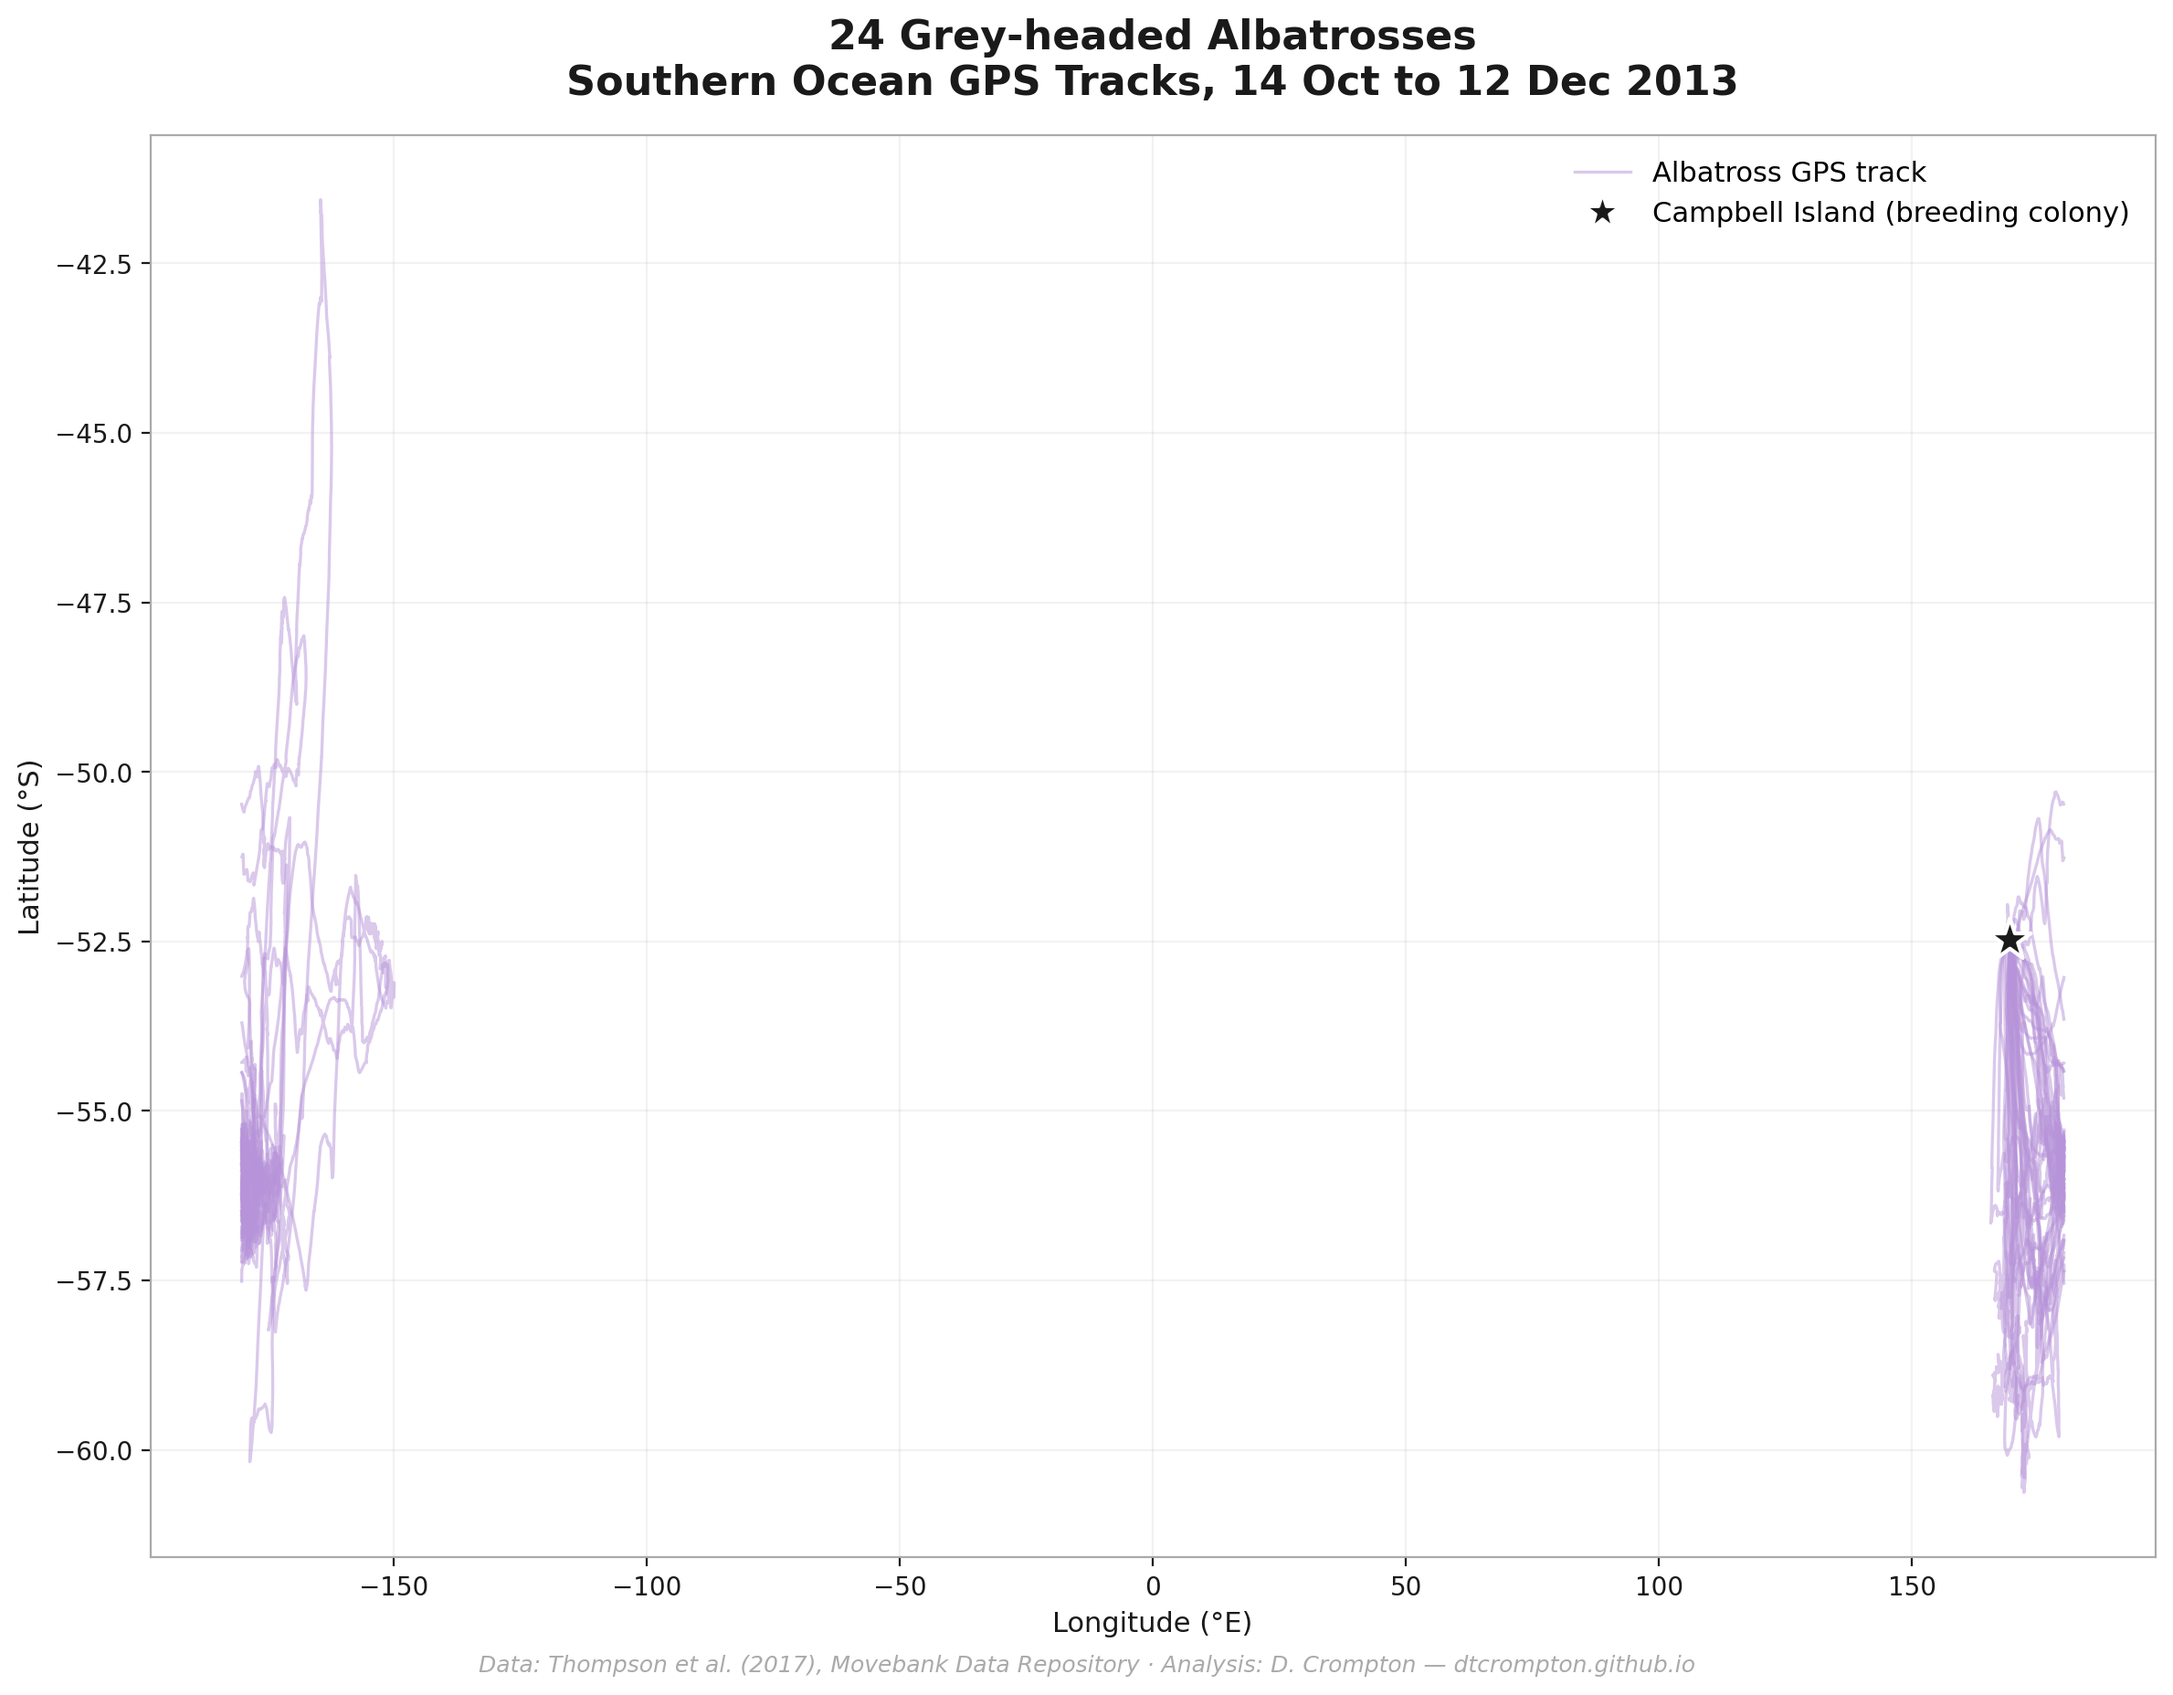
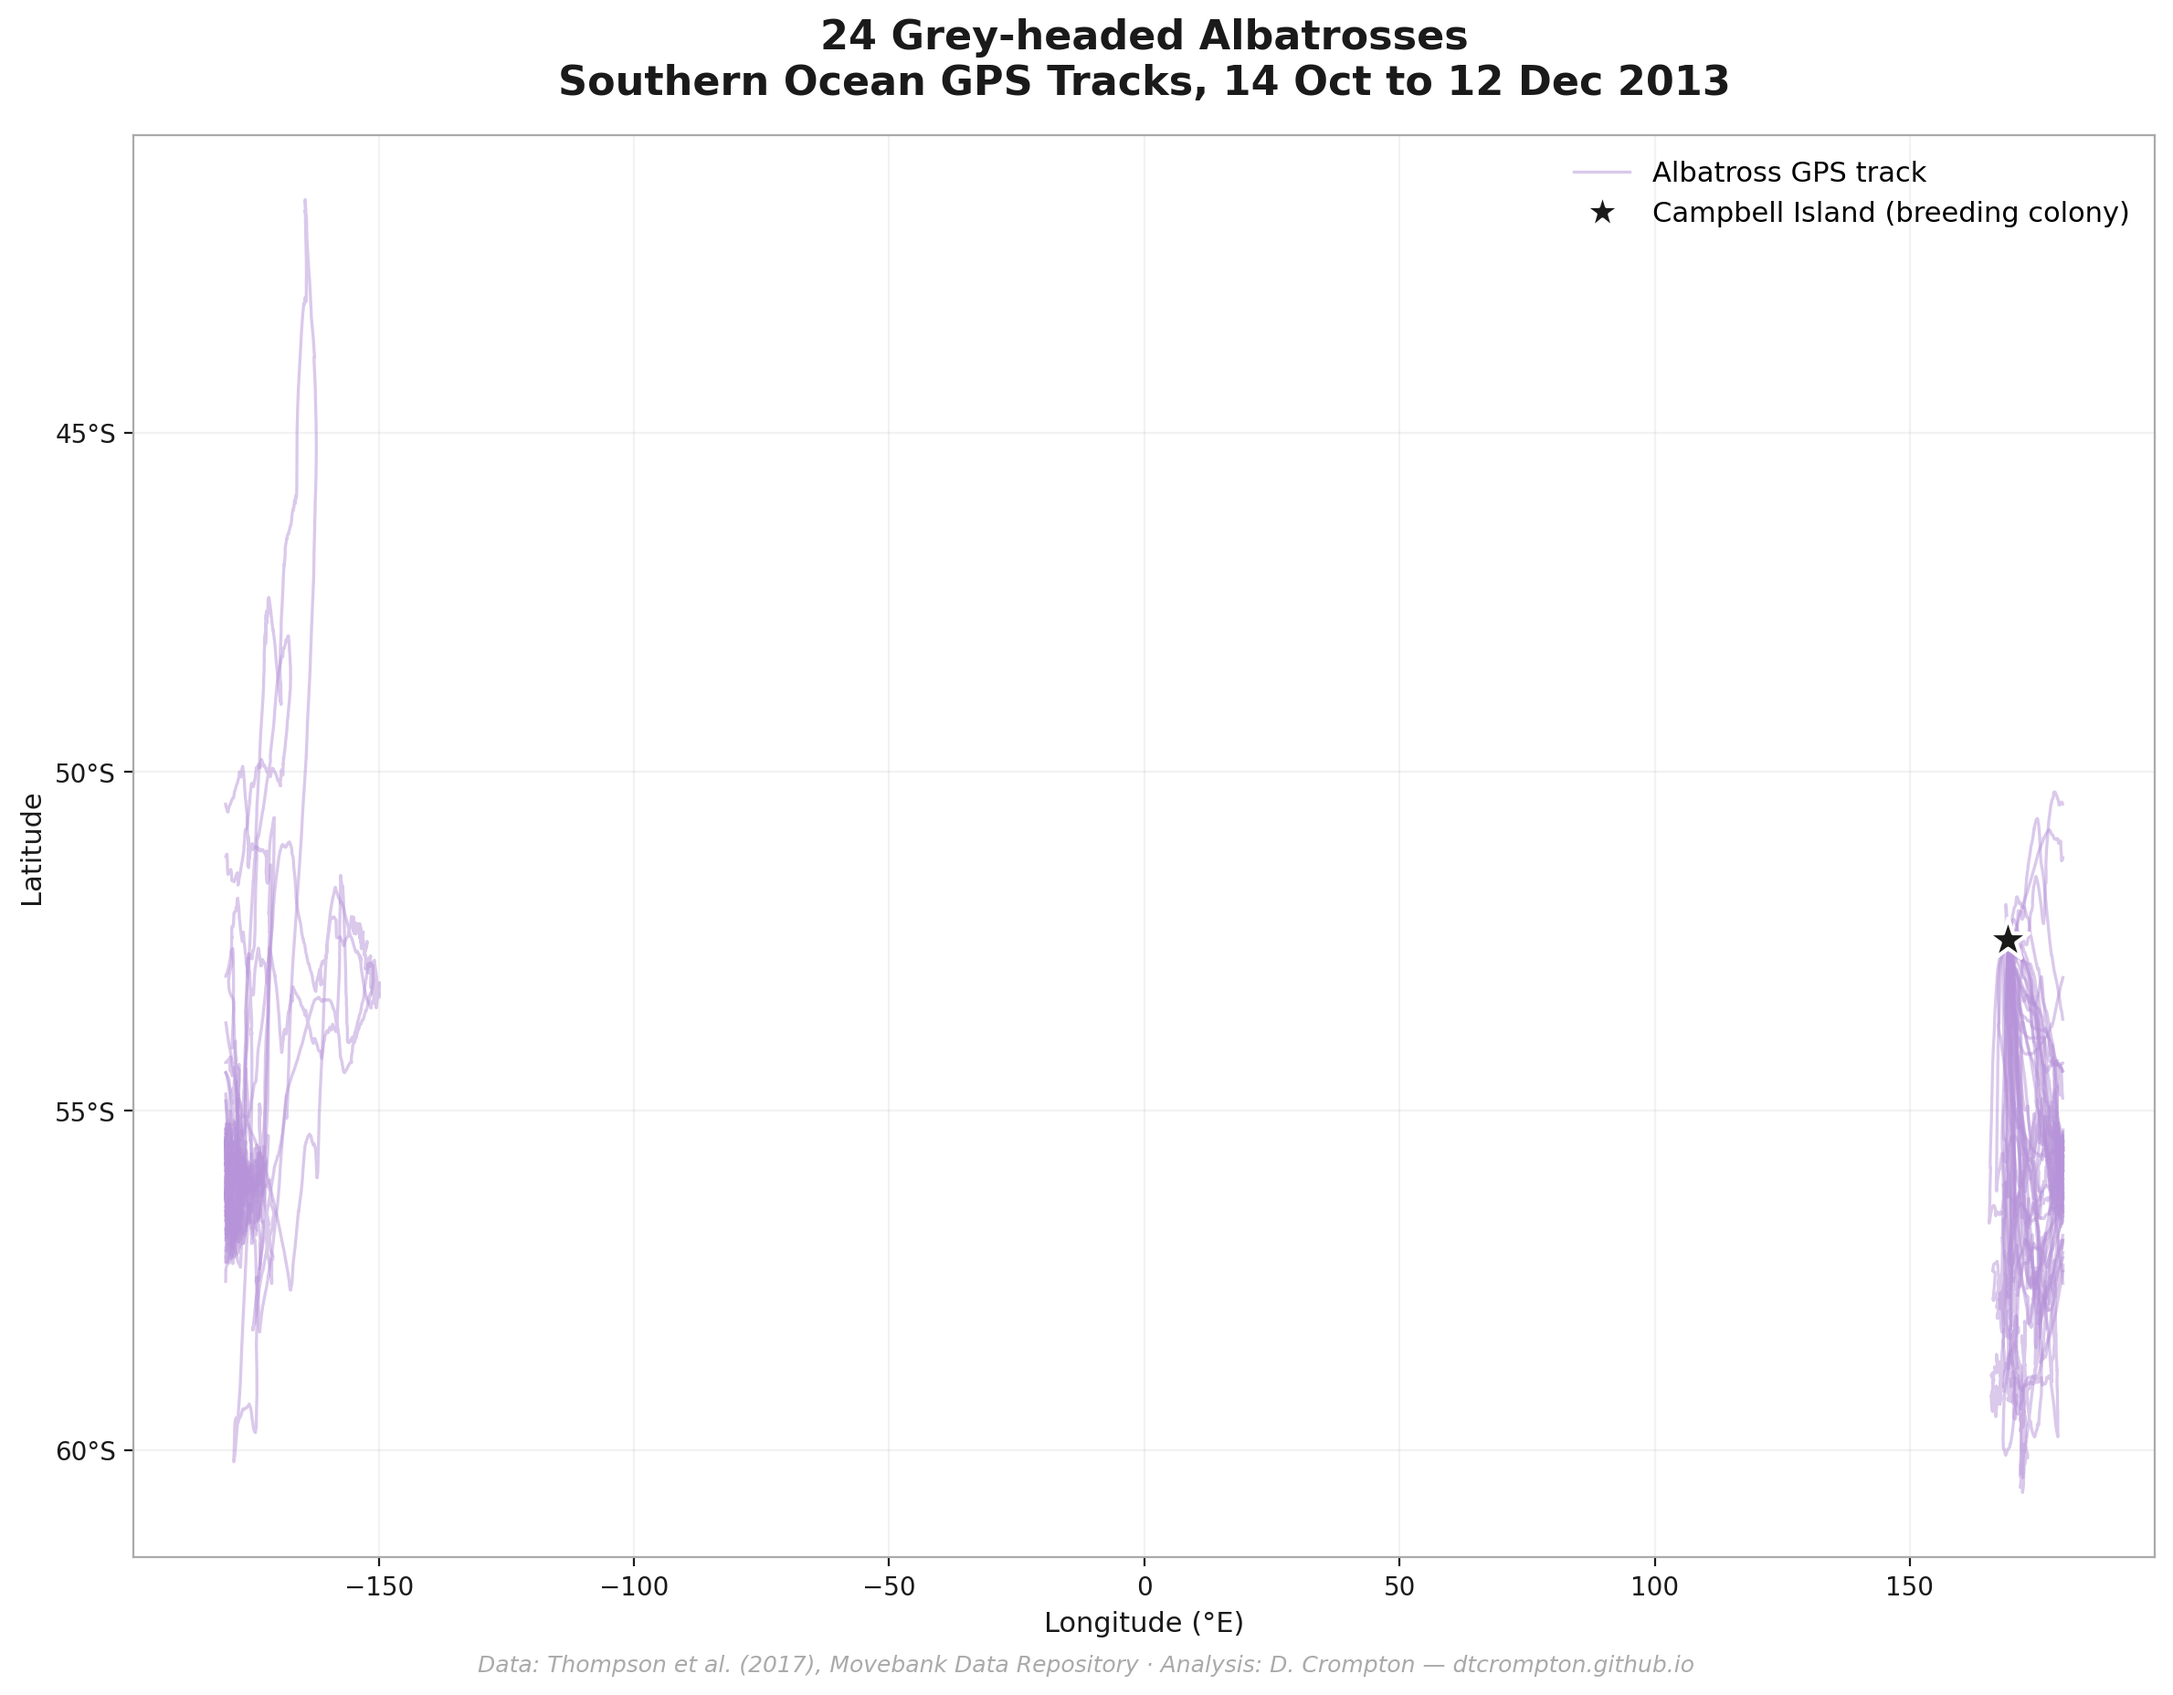
Fix remaining figure labels, legends and axis text

diff --git a/python/phase3_conservation_risk.py b/python/phase3_conservation_risk.py
@@ -37,6 +37,10 @@ WARM_RED  = "#D9947F"
 TEAL      = "#9BC4CB"
 MID_GREY  = "#AAAAAA"
 DARK_TEXT = "#1a1a1a"
+# Darker text versions of the series colours, at least 4.5:1 against white
+TEXT_GREEN = "#4A7A54"
+TEXT_RED   = "#A8533A"
+TEXT_GREY  = "#666666"
 
 CCAMLR_DIR = Path('data/raw/ccamlr/CCAMLR_statistical bulletin_V37')
 
@@ -336,7 +340,8 @@ xlabels = [f'{t}°E' if t <= 180 else f'{360-t}°W' for t in xticks]
 ax1.set_xlim(155, 220)  # display only: the KDE grid is unchanged
 ax1.set_xticks(xticks)
 ax1.set_xticklabels(xlabels, fontsize=9, color=DARK_TEXT)
-ax1.set_ylabel('Latitude (°S)', fontsize=11, color=DARK_TEXT)
+ax1.set_ylabel('Latitude', fontsize=11, color=DARK_TEXT)
+ax1.yaxis.set_major_formatter(FuncFormatter(lambda value, _: f'{abs(value):g}°S'))
 ax1.set_title('Foraging Hotspots (KDE)', fontsize=13,
               fontweight='bold', color=DARK_TEXT, pad=10)
 hdr_handles = [mpatches.Patch(color=HDR_COLOURS[share], label=f'{share}% of density')
@@ -391,8 +396,8 @@ ax3_twin.plot(months,
               markersize=7, label='Longline hooks (CCAMLR)', zorder=5)
 
 ax3.set_xlabel('Month (2013)', fontsize=11, color=DARK_TEXT)
-ax3.set_ylabel('Foraging GPS points', fontsize=11, color=GREEN)
-ax3_twin.set_ylabel('CCAMLR hooks set (millions)', fontsize=11, color=WARM_RED)
+ax3.set_ylabel('Foraging GPS points', fontsize=11, color=TEXT_GREEN)
+ax3_twin.set_ylabel('CCAMLR hooks set (millions)', fontsize=11, color=TEXT_RED)
 ax3_twin.set_ylim(bottom=0)  # both axes start at zero
 ax3_twin.yaxis.set_major_formatter(FuncFormatter(lambda value, _: f'{value / 1e6:.0f}'))
 ax3.set_title(f'Temporal Synchrony (index = {temporal_synchrony:.2f})',
@@ -400,7 +405,7 @@ ax3.set_title(f'Temporal Synchrony (index = {temporal_synchrony:.2f})',
 ax3.set_xticks(months)
 ax3.set_xticklabels(month_names, rotation=45, fontsize=9)
 ax3.tick_params(colors=DARK_TEXT)
-ax3_twin.tick_params(colors=WARM_RED)
+ax3_twin.tick_params(colors=TEXT_RED)
 ax3.grid(True, alpha=0.2, color=MID_GREY, axis='y')
 
 lines1, labels1 = ax3.get_legend_handles_labels()
@@ -419,11 +424,11 @@ for group, colour in GROUP_COLOURS.items():
                 c=colour, s=120, edgecolors='white',
                 linewidths=1, label=f'Foraging-strategy group {group}', zorder=3)
     for _, row in grp.iterrows():
-        # These two would sit on a neighbouring bird, so their labels go to the left
-        label_left = row['bird_id'] in (90407, 90494)
+        # These would sit on a neighbouring bird or cross the plot edge, so their labels go left
+        label_left = row['bird_id'] in (90407, 90494, 90493)
         ax4.annotate(str(row['bird_id']),
                      (row['max_dist_km'], row['prop_foraging']),
-                     fontsize=6, color=DARK_TEXT,
+                     fontsize=8, color=DARK_TEXT,
                      xytext=(-6, 4) if label_left else (4, 4),
                      ha='right' if label_left else 'left',
                      textcoords='offset points')
@@ -443,7 +448,7 @@ fig.text(
     "Data: Thompson et al. (2017), Movebank Data Repository · CCAMLR Statistical Bulletin Vol. 37 · "
     "EEZ: Flanders Marine Institute (2023), World EEZ v12, CC BY 4.0 · "
     "Analysis: D. Crompton — dtcrompton.github.io",
-    ha='center', fontsize=8, color=MID_GREY, style='italic'
+    ha='center', fontsize=8, color=TEXT_GREY, style='italic'
 )
 
 plt.tight_layout(h_pad=3)  # room for the caption under the KDE panel

diff --git a/python/phase2a_figures.py b/python/phase2a_figures.py
@@ -12,6 +12,7 @@ import numpy as np
 import matplotlib.pyplot as plt
 import matplotlib.patches as mpatches
 from matplotlib.lines import Line2D
+from matplotlib.ticker import FuncFormatter, MultipleLocator
 
 # --- Portfolio colours (light theme) ---
 MAUVE     = "#B794D9"
@@ -66,7 +67,9 @@ ax1.set_xticks(display_lons)
 ax1.set_xticklabels(['180°' if t == 180 else f'{t}°E' if t < 180 else f'{360 - t}°W'
                      for t in display_lons])
 ax1.set_xlabel('Longitude', fontsize=11, color=DARK_TEXT)
-ax1.set_ylabel('Latitude (°S)', fontsize=11, color=DARK_TEXT)
+ax1.set_ylabel('Latitude', fontsize=11, color=DARK_TEXT)
+ax1.yaxis.set_major_locator(MultipleLocator(5))
+ax1.yaxis.set_major_formatter(FuncFormatter(lambda value, _: f'{abs(value):g}°S'))
 ax1.set_title('Spatial Distribution of Behaviour States', fontsize=13,
               fontweight='bold', color=DARK_TEXT)
 ax1.legend(handles=legend_patches + [
@@ -88,13 +91,13 @@ for state in plot_order:
     ax2.scatter(pts['timestamp'], pts['dist_from_campbell'],
                 c=STATE_COLOURS[state], s=3, alpha=0.7, edgecolors='none')
 
-ax2.axhline(y=50, color=WARM_RED, linestyle='--', linewidth=1.2,
-            label='Colony boundary (50 km)')
+colony_line = ax2.axhline(y=50, color=WARM_RED, linestyle='--', linewidth=1.2,
+                          label='Colony boundary (50 km)')
 ax2.set_xlabel('Date (2013)', fontsize=11, color=DARK_TEXT)
 ax2.set_ylabel('Distance from Campbell Island (km)', fontsize=11, color=DARK_TEXT)
 ax2.set_title(f'Bird {example_bird} — Behaviour Over Time', fontsize=13,
               fontweight='bold', color=DARK_TEXT)
-ax2.legend(handles=legend_patches, fontsize=9, frameon=False, loc='upper left')
+ax2.legend(handles=legend_patches + [colony_line], fontsize=9, frameon=False, loc='upper left')
 ax2.tick_params(colors=DARK_TEXT)
 ax2.grid(True, alpha=0.2, color=MID_GREY)
 for spine in ax2.spines.values():
@@ -209,7 +212,9 @@ ax.scatter(CAMPBELL_LON, CAMPBELL_LAT, c=DARK_TEXT, s=300, marker='*',
 ax.set_title('24 Grey-headed Albatrosses\nSouthern Ocean GPS Tracks, 14 Oct to 12 Dec 2013',
              fontsize=16, fontweight='bold', color=DARK_TEXT, pad=16)
 ax.set_xlabel('Longitude (°E)', fontsize=11, color=DARK_TEXT)
-ax.set_ylabel('Latitude (°S)', fontsize=11, color=DARK_TEXT)
+ax.set_ylabel('Latitude', fontsize=11, color=DARK_TEXT)
+ax.yaxis.set_major_locator(MultipleLocator(5))
+ax.yaxis.set_major_formatter(FuncFormatter(lambda value, _: f'{abs(value):g}°S'))
 
 track_handle = Line2D([0], [0], color=MAUVE, alpha=0.5, linewidth=1.2,
                        label='Albatross GPS track')

diff --git a/python/phase1_movement_metrics.py b/python/phase1_movement_metrics.py
@@ -14,6 +14,7 @@ Outputs:
 import pandas as pd
 import numpy as np
 import matplotlib.pyplot as plt
+from matplotlib.ticker import FuncFormatter, MultipleLocator
 from math import radians, sin, cos, sqrt, atan2, pi
 
 from colony import COLONY_LAT, COLONY_LON
@@ -261,7 +262,9 @@ ax1.scatter(CAMPBELL_LON, CAMPBELL_LAT, c='red', s=200,
             marker='*', edgecolors='white', linewidths=1.5,
             label='Campbell Island', zorder=5)
 ax1.set_xlabel('Longitude (°E)', fontsize=11)
-ax1.set_ylabel('Latitude (°S)', fontsize=11)
+ax1.set_ylabel('Latitude', fontsize=11)
+ax1.yaxis.set_major_locator(MultipleLocator(5))
+ax1.yaxis.set_major_formatter(FuncFormatter(lambda value, _: f'{abs(value):g}°S'))
 ax1.set_title('All 24 Bird Tracks', fontsize=13, fontweight='bold')
 ax1.legend(fontsize=9)
 ax1.grid(True, alpha=0.2)

diff --git a/outputs_v3/portfolio_assets/MANIFEST.md b/outputs_v3/portfolio_assets/MANIFEST.md
@@ -4,9 +4,9 @@ Copies of the final figures and map. Sizes are in bytes; "before" is the file at
 
 | File | Source | Before | After | What changed |
 |---|---|---|---|---|
-| `phase1_overview.png` | `outputs/figures/phase1_overview.png` | 299,435 | 299,435 | Not changed and not regenerated. |
-| `phase2a_behaviour.png` | `outputs/figures/phase2a_behaviour.png` | 307,725 | 496,815 | Footer credit changed to Thompson et al. (2017). Map panel plots longitudes shifted to 0-360 for display, so tracks are no longer split at the dateline. Time-budget legend moved off the bars. |
+| `phase1_overview.png` | `outputs/figures/phase1_overview.png` | 299,435 | 294,978 | Latitude axis labelled in positive degrees south. Nothing else changed: the dateline streaks and dark theme remain. |
+| `phase2a_behaviour.png` | `outputs/figures/phase2a_behaviour.png` | 307,725 | 496,740 | Footer credit changed to Thompson et al. (2017). Map panel plots longitudes shifted to 0-360 for display, so tracks are no longer split at the dateline, and labels latitude in positive degrees south. 50 km line added to the bird 89518 legend. Time-budget legend moved off the bars. |
 | `phase2b_drivers.png` | `outputs/figures/phase2b_drivers.png` | 78,837 | 86,217 | Footer credit changed to Thompson et al. (2017). Raw variable names on the importance axis replaced with plain labels. |
-| `phase3_risk_analysis.png` | `outputs/figures/phase3_risk_analysis.png` | 421,789 | 505,041 | Title and scatter panel renamed; risk labels replaced by Foraging-strategy groups A / B / C in colour-blind-safe colours of at least 3:1 contrast against white. Footer credits changed to Thompson et al. (2017) and World EEZ v12. KDE panel: densest area now filled, one colour step per percentile level, colour bar labelled by percentile. Bird id labels no longer overlap. Temporal panel: legend moved off the January point, hooks axis in millions, both axes start at zero. File name kept because other sites link to it. |
-| `linkedin_tracks_map.png` | `outputs/figures/linkedin_tracks_map.png` | 228,076 | 228,804 | Footer credit changed to Thompson et al. (2017). |
+| `phase3_risk_analysis.png` | `outputs/figures/phase3_risk_analysis.png` | 421,789 | 366,377 | Title and scatter panel renamed; risk labels replaced by Foraging-strategy groups A / B / C in colour-blind-safe colours of at least 3:1 contrast against white. Footer credits changed to Thompson et al. (2017) and World EEZ v12, with footer text at 5.7:1 contrast. KDE panel: shows the smallest areas holding 50%, 75% and 90% of the density in one colour, with a caption, zoomed to 155°E-140°W; the KDE grid is unchanged. Latitude in positive degrees south. Bird ids at 8 pt with no overlaps. Temporal panel: legend moved off the January point, hooks axis in millions, both axes start at zero, axis text at least 4.5:1. File name kept because other sites link to it. |
+| `linkedin_tracks_map.png` | `outputs/figures/linkedin_tracks_map.png` | 228,076 | 221,118 | Footer credit changed to Thompson et al. (2017). Latitude axis labelled in positive degrees south. The dateline split remains. |
 | `albatross_interactive_map.html` | `outputs/maps/albatross_interactive_map.html` | 1,891,238 | 1,892,378 | Foraging-strategy group names in legend and layer names; tracks and legend share the Phase 3 scatter colours (at least 3:1 contrast against white); "Click foraging centre" legend line removed. **Minimap: restored** (bottom right, toggleable, default OpenStreetMap tiles). EEZ layer, credits, CCAMLR boundary, Campbell Island popup and key handling kept. Foraging-centre markers and their per-bird popups remain hidden, as before. |
